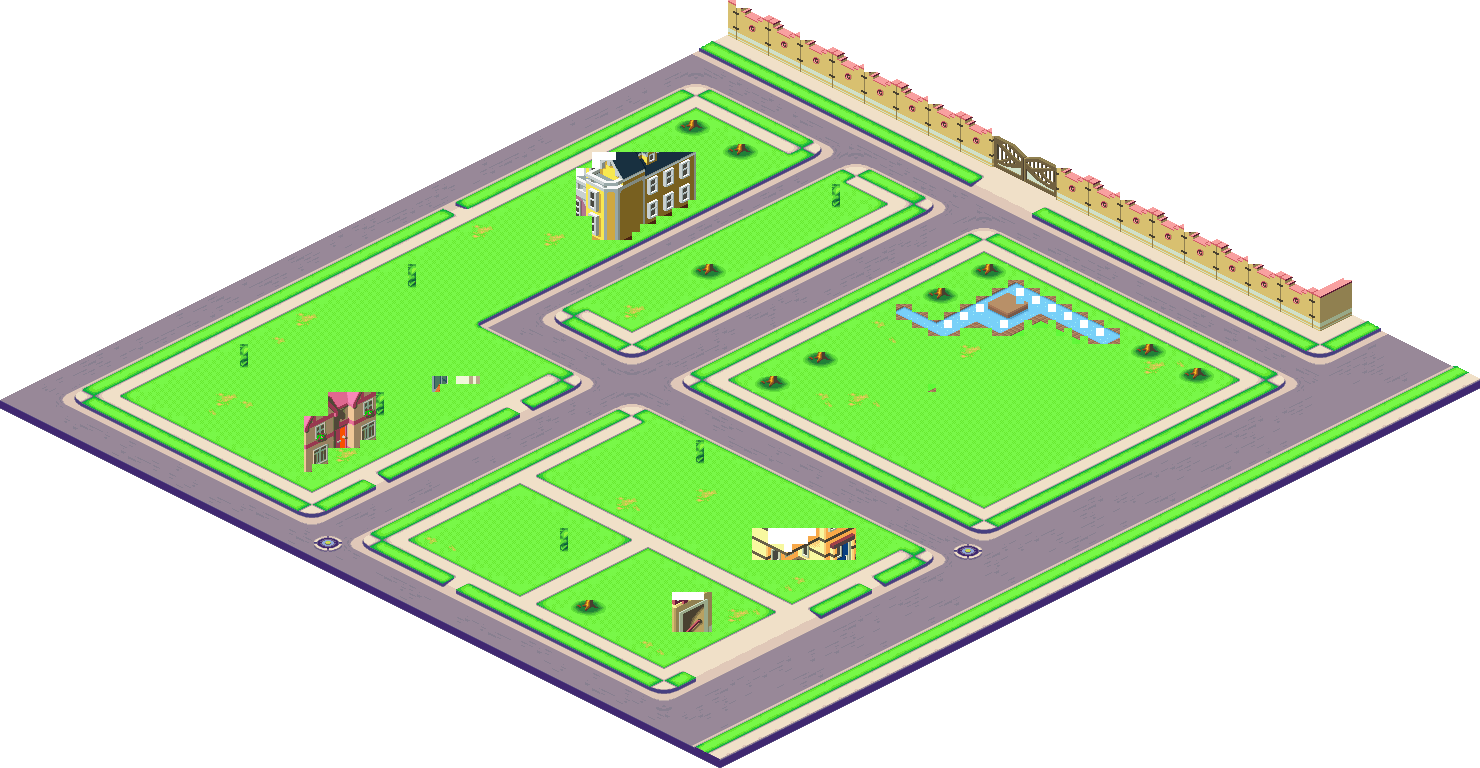
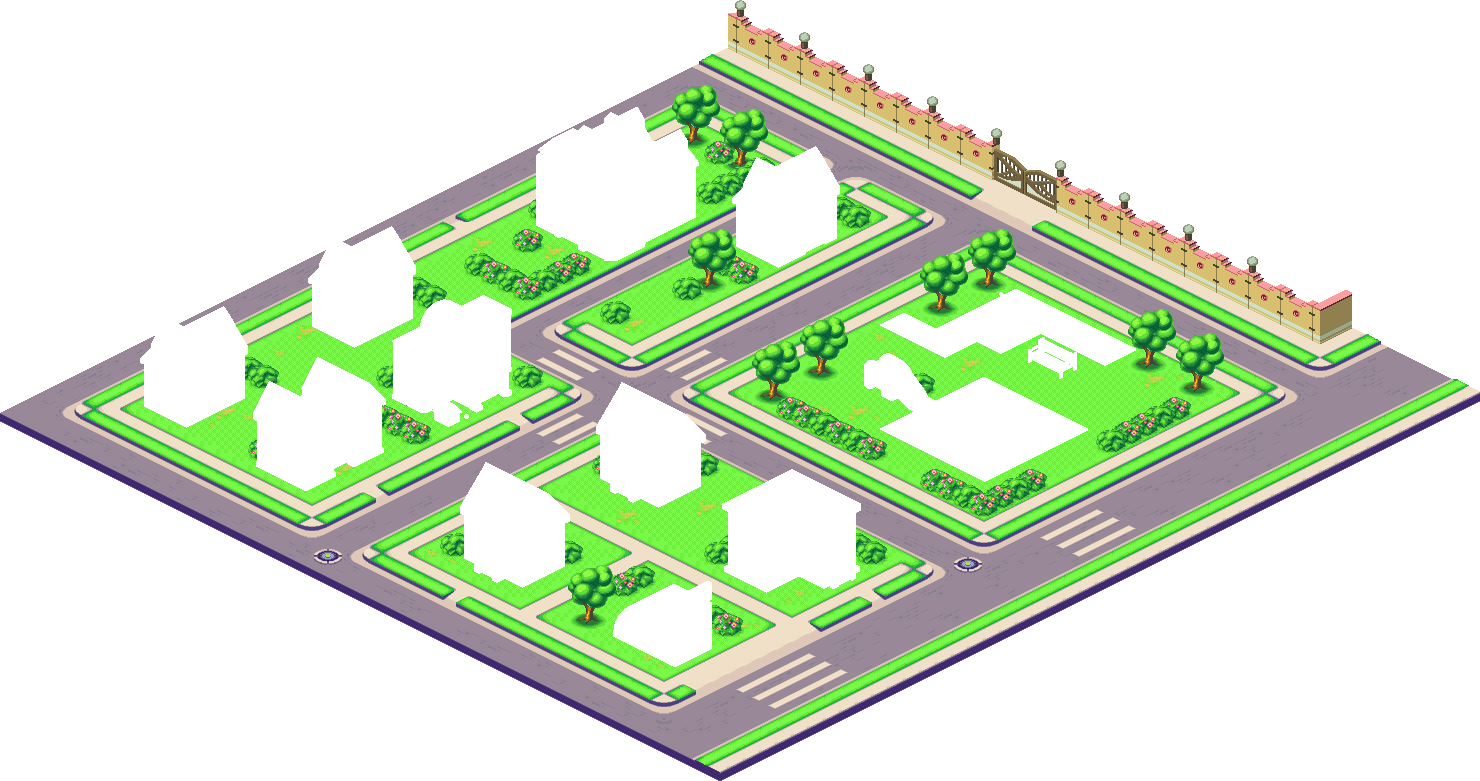
changes, -added a ton of assets for ACDC Town, -cleaned up BG image for the map (slightly)
TODO:
-fix the colissions on all objects and adjust the drawing offset,
-make sure to add colissions where they are needed for new objects,
-add the rest of the bushes to the map and make sure drawing offsets work for all
 [May need to revisit the bushes, as the drawing offset may need to be
 done for all directions to account for different structures of
 different sizes]

diff --git a/assets/tiles/BN3ACDCParkElephantSlide.tsx b/assets/tiles/BN3ACDCParkElephantSlide.tsx
@@ -1,0 +1,12 @@
+<?xml version="1.0" encoding="UTF-8"?>
+<tileset version="1.8" tiledversion="1.8.6" name="BN3ACDCParkElephantSlide" tilewidth="72" tileheight="60" tilecount="1" columns="1" objectalignment="bottomleft">
+ <tileoffset x="0" y="27"/>
+ <image source="BN3ACDCParkElephantSlide.png" width="72" height="60"/>
+ <tile id="0">
+  <objectgroup draworder="index" id="2">
+   <object id="1" x="52" y="60">
+    <polygon points="-2,3 -58,-25 -34,-37 22,-9"/>
+   </object>
+  </objectgroup>
+ </tile>
+</tileset>

diff --git a/assets/tiles/BN3ACDCTown.tsx b/assets/tiles/BN3ACDCTown.tsx
@@ -1,4 +1,4 @@
 <?xml version="1.0" encoding="UTF-8"?>
-<tileset version="1.8" tiledversion="1.8.6" name="BN3ACDCTown" tilewidth="1480" tileheight="768" tilecount="1" columns="1" objectalignment="top">
- <image source="BN3ACDCTown.png" width="1480" height="768"/>
+<tileset version="1.8" tiledversion="1.8.6" name="BN3ACDCTown" tilewidth="1480" tileheight="781" tilecount="1" columns="1" objectalignment="top">
+ <image source="BN3ACDCTown.png" width="1480" height="781"/>
 </tileset>

diff --git a/assets/tiles/BN3DexHomeOutside.tsx b/assets/tiles/BN3DexHomeOutside.tsx
@@ -1,0 +1,6 @@
+<?xml version="1.0" encoding="UTF-8"?>
+<tileset version="1.8" tiledversion="1.8.6" name="BN3DexHomeOutside" tilewidth="139" tileheight="124" tilecount="1" columns="1" objectalignment="bottomleft">
+ <tileoffset x="139" y="0"/>
+ <grid orientation="orthogonal" width="139" height="24"/>
+ <image source="BN3DexHomeOutside.png" width="139" height="124"/>
+</tileset>

diff --git a/assets/tiles/BN3YaisHouseOutside.tsx b/assets/tiles/BN3YaisHouseOutside.tsx
@@ -1,0 +1,5 @@
+<?xml version="1.0" encoding="UTF-8"?>
+<tileset version="1.8" tiledversion="1.8.6" name="BN3YaisHouseOutside" tilewidth="163" tileheight="154" tilecount="1" columns="1" objectalignment="bottomright">
+ <tileoffset x="0" y="80"/>
+ <image source="BN3YaisHouseOutside.png" width="163" height="154"/>
+</tileset>

diff --git a/assets/tiles/BN3ACDCTownSquirrel.tsx b/assets/tiles/BN3ACDCTownSquirrel.tsx
@@ -1,0 +1,5 @@
+<?xml version="1.0" encoding="UTF-8"?>
+<tileset version="1.8" tiledversion="1.8.6" name="BN3ACDCTownSquirrel" tilewidth="40" tileheight="39" tilecount="1" columns="1" objectalignment="bottom">
+ <tileoffset x="0" y="21"/>
+ <image source="BN3ACDCTownSquirrel.png" width="40" height="39"/>
+</tileset>

diff --git a/assets/tiles/BN3ACDCParkStillWater.tsx b/assets/tiles/BN3ACDCParkStillWater.tsx
@@ -1,0 +1,4 @@
+<?xml version="1.0" encoding="UTF-8"?>
+<tileset version="1.8" tiledversion="1.8.6" name="BN3ACDCParkStillWater" tilewidth="256" tileheight="77" tilecount="1" columns="1" objectalignment="top">
+ <image source="BN3ACDCParkStillWater.png" width="256" height="77"/>
+</tileset>

diff --git a/assets/tiles/BN3ACDCParkSandBox.tsx b/assets/tiles/BN3ACDCParkSandBox.tsx
@@ -1,0 +1,4 @@
+<?xml version="1.0" encoding="UTF-8"?>
+<tileset version="1.8" tiledversion="1.8.6" name="BN3ACDCParkSandBox" tilewidth="208" tileheight="105" tilecount="1" columns="1" objectalignment="top">
+ <image source="BN3ACDCParkSandBox.png" width="208" height="105"/>
+</tileset>
